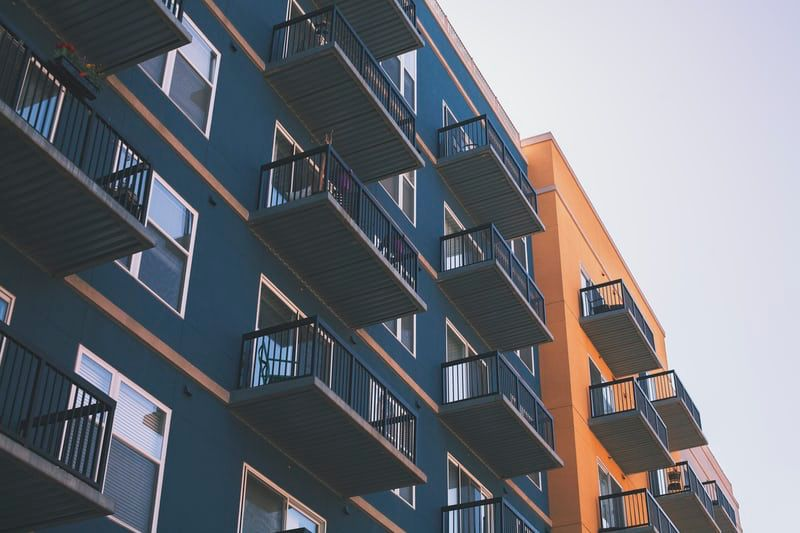
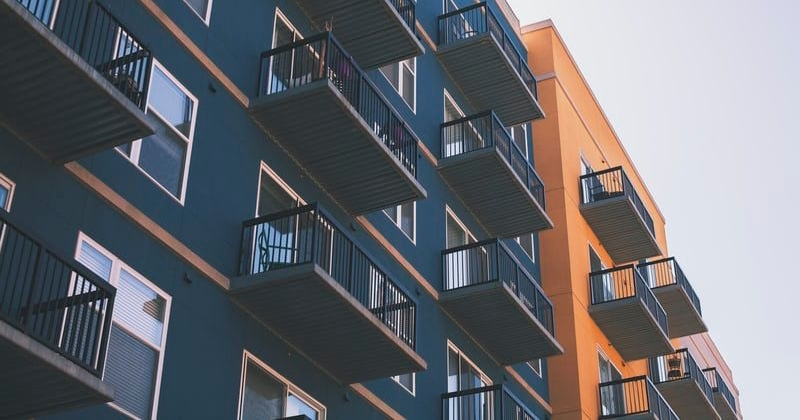
landing image

diff --git a/index.html b/index.html
@@ -320,7 +320,7 @@
           </li>
         </ul>
       </div>
-      <section class="little-section">
+      <!-- <section class="little-section">
       <div class="card-little">
           <p>
             .....with the Equal Angle in a Triangle and the balanced proportion of a Circle; JLRHomes is set to deliver a Perfect and Safe Home alongside a Secured Investment
@@ -329,9 +329,19 @@
             <button class="btn-1">Contact Us</button>
           </a>
       </div>
-    </section>
+    </section> -->
     
     </section>
+       <div class="little-section">
+          <div class="card-little">
+              <p>
+                .....with the Equal Angle in a Triangle and the balanced proportion of a Circle; JLRHomes is set to deliver a Perfect and Safe Home alongside a Secured Investment
+              </p>
+              <a class="anchor-href ark" href="#footer">
+                <button class="btn-1">Contact Us</button>
+              </a>
+          </div>
+       </div>
         <!-- FOOTER -->
         <footer id="footer" class="footer">
             <div class="footer-top">

diff --git a/assets/css/style.css b/assets/css/style.css
@@ -494,10 +494,11 @@ a {
 .landing {
   background-image: url(../images/realt.jpeg);
   background-repeat: no-repeat;
-  background-position: center center;
+  background-position: center;
   background-size: cover;
   background-attachment: fixed;
   width: 100vw;
+  height: 100%;
   /* height: 100vh; */
   /* animation: 20s slide infinite; */
 }
@@ -1122,10 +1123,11 @@ small {
   }
 
   .little-section {
-  display: column;
-  justify-content: center;
-  align-items: center;
-  margin: auto;
+    display: column;
+    justify-content: center;
+    align-items: center;
+    margin: auto;
+    background-color: #e4fcdf;
 }
 
 .card-little {
@@ -1136,8 +1138,6 @@ small {
   margin: auto;
   background-color: #c97705;
   padding: 1rem;
-  margin-top: 1rem;
-  
 }
 
 }
@@ -1147,6 +1147,7 @@ small {
   justify-content: center;
   align-items: center;
   margin: auto;
+  background-color: #e4fcdf;
 }
 
 .card-little {
@@ -1157,7 +1158,7 @@ small {
   margin: auto;
   background-color: #c97705;
   padding: 2rem;
-  margin-top: 3rem;
+  /* margin-top: 3rem; */
 }
 
 .card-little p {
